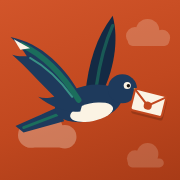
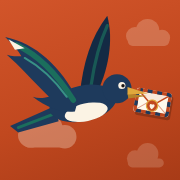
앱 아이콘: 편지를 문 까치(항공우편풍 편지·하트 도장) (#13)
Claude-Session: https://claude.ai/code/session_01GA1ocwaYjo7gRcQeBhuum6

Changed region(s): [[0.0278, 0.0833, 0.9722, 0.75]]

diff --git a/CLAUDE.md b/CLAUDE.md
@@ -205,10 +205,11 @@
 - [x] **요구사항 5가지 반영 (2026-10-07)**: ①앱이 열려 있는 동안 귀여운 알림 팝업(`src/components/Notifier.tsx`: 도착·답장·중간 지점, 설정 스위치를 따름, 다른 탭이면 브라우저 알림). **앱을 닫은 뒤의 푸시는 아직 없음**(웹 푸시+예약 서비스 설계는 대화에 있음, 키 필요). ②전국 지역 선택 + "내 위치로"(`core/places.ts` 33곳+랜드마크, `core/routes.ts`가 두 지역 사이 경유지를 자동으로 뽑음, 노선 id는 `출발-도착`이고 예전 3개 id 그대로 호환) + 실제 해안선 지도(`core/koreaGeo.ts` = Natural Earth, `scripts/build-korea-geo.mjs`로 생성, `src/components/JourneyMap.tsx`·`LandmarkIcon.tsx`). 카카오맵 없이도 토스 정적 빌드에서 동작. ③지금 지나는 곳·다음 지점까지 남은 시간·경유지 시각표(`LetterView.tsx`). ④글자 수 제한 제거(`core/limits.ts` 10만 자). **서버 규칙(`firebase/firestore.rules` 500→100000자)을 Firebase 콘솔에 먼저 게시한 뒤 배포해야 긴 편지가 저장됨**(규칙이 먼저여도 옛 앱은 문제없음). 새가 편지를 문 그림(`BirdIcon letter`). 시험: `npm run test:core` 49개. `check:toss`는 `CHROME_PATH=/chrome/경로`로 실제 브라우저 점검까지 가능
 - [x] **푸시 알림 코드 완료 (2026-10-07, 키 입력 전이라 꺼져 있음)**: 웹 푸시(VAPID) + Upstash QStash 예약, **Firebase Blaze 불필요**. 폰 `src/lib/push.ts`(켜기·구독·예약), 서비스 워커 `public/sw.js`, 서버 `src/app/api/push/{schedule,deliver}/route.ts`(deliver는 QStash 서명 검증), 요청 검사 `core/pushPayload.ts`, 문구 `src/lib/notifyText.ts`, 안내 카드 `PushPrompt.tsx`, 설정 스위치, 알림 담당 `Notifier.tsx`가 도착·경유지 시각마다 예약(중복 예약 방지). 켜는 법은 **`docs/푸시-설정.md`**(Vercel 환경 변수 6개 + 다시 배포). 시험: 요청 검사 16개(test:core 65개), API 서명 검증, 구글 FCM에 요청이 닿는 것(410 응답 확인), 폰 쪽 흐름(가짜 구독)까지 확인. **실제 폰에 알림이 뜨는 것까지는 아직 못 봤음.** 토스 빌드에서는 푸시 UI가 숨겨짐
 - [x] **폴라로이드 사진·두루마리·예약 발송 구현 (2026-10-13, 서버 규칙 게시 필요)**: 사진은 줄인 JPEG를 `letters/{id}/private/photo0~2`에 한 장씩 저장(`core/limits.ts` MAX_PHOTOS·MAX_PHOTO_CHARS, 규칙의 450000과 같아야 함), 숨은 정보는 캔버스로 다시 그려 제거(`src/lib/photo.ts`), 폰 저장은 폴라로이드 PNG(`savePolaroid`). 돌돌 말린 편지·사진 펼침과 현상 효과는 `src/components/Unroll.tsx`+`globals.css`. 예약 발송은 `departAt`(규칙: 최대 366일, 출발 전 `get`은 보낸 사람만), 편지의 비행 시작 시각 `sentAt`을 예약이면 출발 시각으로 바꿔 읽어서 비행·알림 계산은 그대로(`remote.ts toMeta`), 규칙 때문에 예약하지 않은 편지에는 `departAt` 칸을 넣지 않음. 홈의 "출발을 기다리는 편지", 예약 취소(`cancel`). 한계: 예약 편지는 목록 쿼리를 규칙으로 막지 못해 받는 사람 앱이 화면에서 숨김(내용은 도착 전 규칙으로 막힘), 서버 해제 방식은 다음 단계. 시험: `npm run test:core` 117개, 규칙 에뮬레이터 48개, `npm run e2e:local` 13개(서버 없이). **답장**: 규칙에 `replyTo`(내가 받은 편지의 보낸 사람에게만, 친구 아니어도 가능), 편지 화면 [답장하기]→`/send?reply=ID`(보낸 곳·받는 곳 반전). 규칙 에뮬레이터 57개. 문서: `docs/로그인-설정.md`, `docs/카톡-앱열기.md`
-- [x] **2026-10-13 저녁 작업 (브랜치 `claude/exciting-shannon-lbcyf3`, PR #12 미병합)**: 돌돌 말린 종이 연출 다듬음(글씨 안 가림, 2.6초), 설정 "계정 연결"(구글·애플 코드 `src/lib/firebase/link.ts`, 카카오·네이버·라인은 "준비 중"), 카톡 링크(미리보기 카드 `letter/[id]/layout.tsx`, 카톡 안 브라우저 안내 `OpenInApp.tsx`, 카카오링크 `kakaoShare.ts`는 `NEXT_PUBLIC_KAKAO_JS_KEY` 넣기 전 꺼짐, [앱에서 열기]는 `NEXT_PUBLIC_APP_OPEN=1` 전 꺼짐), 연락처 선택기로 문자 초대(`contactInvite.ts`, 저장 안 함), 친구가 앱을 닫아도 오는 도착 알림(`firebase/pushSub.ts`, 규칙 `users/{uid}/push/sub`, 규칙 시험 65개), 짹짹 알림(앱 열린 동안 새소리 `chirp.ts`, 문구 "짹짹!", 진동, 설정 스위치). 웹 푸시 소리는 폰 기본음 → 진짜 새소리는 스토어 앱 푸시 때.
+- [x] **2026-10-13 저녁 작업 (PR #12로 2026-10-14 main에 병합됨, Vercel 자동 배포)**: 돌돌 말린 종이 연출 다듬음(글씨 안 가림, 2.6초), 설정 "계정 연결"(구글·애플 코드 `src/lib/firebase/link.ts`, 카카오·네이버·라인은 "준비 중"), 카톡 링크(미리보기 카드 `letter/[id]/layout.tsx`, 카톡 안 브라우저 안내 `OpenInApp.tsx`, 카카오링크 `kakaoShare.ts`는 `NEXT_PUBLIC_KAKAO_JS_KEY` 넣기 전 꺼짐, [앱에서 열기]는 `NEXT_PUBLIC_APP_OPEN=1` 전 꺼짐), 연락처 선택기로 문자 초대(`contactInvite.ts`, 저장 안 함), 친구가 앱을 닫아도 오는 도착 알림(`firebase/pushSub.ts`, 규칙 `users/{uid}/push/sub`, 규칙 시험 65개), 짹짹 알림(앱 열린 동안 새소리 `chirp.ts`, 문구 "짹짹!", 진동, 설정 스위치). 웹 푸시 소리는 폰 기본음 → 진짜 새소리는 스토어 앱 푸시 때.
 - **사용자 결정(2026-10-13)**: 예약 편지 서버 숨기기는 "사실 중요하지 않다" → 지금 방식(내용만 서버가 막음, 목록은 앱이 숨김) 유지하고 뒤로 미룸. 출발한 편지는 받는 사람도 날아오는 모습을 봄(기다림의 미학 핵심).
-- **내일 이어갈 것(사용자: "여기부터 내일")**: ①푸시 키 넣기 — 1단계는 대표님이 Upstash(console.upstash.com) 가입 후 QStash 화면 사진(토큰 가리고) 보내기, 이후 `docs/푸시-설정.md` 순서(VAPID 키는 `scripts/gen-vapid.mjs`, 비밀 키는 채팅에 붙이지 않음) ②Firebase 규칙 재게시(푸시 주소 칸 추가됨, 안내 아티팩트 최신화 필요) ③구청 확인 상황을 **작업 시작 전에 먼저 보고** ④PR #12 "합쳐" 승인 대기 ⑤카카오 JavaScript 키 받기 ⑥규칙 게시 뒤 서버에서 사진·예약·답장 두 계정 시험. ⑦**카카오 로그인 구현(사용자: "카카오가 핵심, 한국 유저를 잡으려면" → 소셜 로그인 중 1순위)**: 지금 설정 화면의 카카오는 버튼 자리만 있고 "준비 중"으로 막혀 있음(`src/lib/firebase/link.ts` LOGINS의 `ready:false`). 만들 것: 카카오 로그인 → 우리 서버(Vercel)가 카카오 토큰 확인 → Firebase 커스텀 토큰(uid `kakao:번호`) → 익명 계정 편지·친구 유지(`docs/로그인-설정.md` §1·§5). 대표님이 할 일: 카카오 개발자(developers.kakao.com) 앱 "새 편지"에서 카카오 로그인 켜기·사이트 주소 등록·동의항목(닉네임만), 앱 키 전달(시크릿은 채팅에 붙이지 않고 Vercel에 직접), Firebase 서비스 계정 키를 Vercel 환경 변수로(Blaze 필요 여부 「미확인」). 카카오링크용 JavaScript 키도 같은 앱에서 같이 받음.
+- **내일 이어갈 것(사용자: "여기부터 내일")**: ①푸시 키 넣기 — 1단계는 대표님이 Upstash(console.upstash.com) 가입 후 QStash 화면 사진(토큰 가리고) 보내기, 이후 `docs/푸시-설정.md` 순서(VAPID 키는 `scripts/gen-vapid.mjs`, 비밀 키는 채팅에 붙이지 않음) ②Firebase 규칙 재게시(푸시 주소 칸 추가됨, 안내 아티팩트 최신화 필요) ③구청 확인 상황을 **작업 시작 전에 먼저 보고** ④(완료: PR #12 병합) ⑤카카오 JavaScript 키 받기 ⑥규칙 게시 뒤 서버에서 사진·예약·답장 두 계정 시험. ⑦**카카오 로그인 구현(사용자: "카카오가 핵심, 한국 유저를 잡으려면" → 소셜 로그인 중 1순위)**: 지금 설정 화면의 카카오는 버튼 자리만 있고 "준비 중"으로 막혀 있음(`src/lib/firebase/link.ts` LOGINS의 `ready:false`). 만들 것: 카카오 로그인 → 우리 서버(Vercel)가 카카오 토큰 확인 → Firebase 커스텀 토큰(uid `kakao:번호`) → 익명 계정 편지·친구 유지(`docs/로그인-설정.md` §1·§5). 대표님이 할 일: 카카오 개발자(developers.kakao.com) 앱 "새 편지"에서 카카오 로그인 켜기·사이트 주소 등록·동의항목(닉네임만), 앱 키 전달(시크릿은 채팅에 붙이지 않고 Vercel에 직접), Firebase 서비스 계정 키를 Vercel 환경 변수로(Blaze 필요 여부 「미확인」). 카카오링크용 JavaScript 키도 같은 앱에서 같이 받음.
 - **정정(2026-10-14)**: Vercel 환경 변수에는 푸시용 8개(`NEXT_PUBLIC_VAPID_PUBLIC_KEY`·`VAPID_PRIVATE_KEY`·`VAPID_SUBJECT`·`NEXT_PUBLIC_SITE_URL`·`QSTASH_URL/TOKEN/CURRENT_SIGNING_KEY/NEXT_SIGNING_KEY`)가 **이미 10/7~8에 들어가 있음**(대표님 Vercel 화면 확인). 푸시 코드도 main에 있으므로 "키 입력 전"이라는 위 문장은 옛 정보. 새로 만든 열쇠는 쓰지 않음(교체하면 기존 구독이 무효). 남은 일: 실제 폰에서 설정 → 시험 알림 보내기로 확인, QStash 키가 채팅에 노출된 적 있으면 Upstash에서 교체 후 Vercel 3개 값만 갱신.
+- **2026-10-14**: PR #12 병합(푸시 시험 개선: 옛 구독 자동 정리·시험 버튼 2개·결과 표시, 새 앱 아이콘 `promo/build-icons.mts`로 생성 = 날개 편 까치+편지+구름). 아이폰은 아이콘을 바꿔 주지 않아 **홈 화면 아이콘 삭제 후 다시 추가** 필요. 푸시 시험 결과(폰에서 두 버튼)는 아직 못 받음.
 - [ ] 출시 전 남은 것(기획팀 보고 2026-10-06): 푸시 알림 키 입력과 실제 폰 시험(위 항목), 카카오맵 교체, `?test=1`·`?demo=1` 시험 기능 숨기기(주의: 매일 점검 e2e가 공개 사이트에서 `?test=1`을 씀 → 숨기려면 점검 방식도 바꿔야 함), 도착 시각 서버 검증(Blaze), 홍보 카드 5장을 새 일러스트로 재제작, 시험 데이터 정리, 브랜치를 main에 합치고 배포
 - [x] 홍보 자동화(2026-10-02~): `promo/record-demo.mjs`(앱 화면 녹화 → `promo/video/saepyeonji-demo.mp4`, Playwright+ffmpeg, AI 크레딧 불필요), 자동 게시 `promo/schedule.json`+`scripts/auto-post.mjs`+`.github/workflows/auto-post.yml`(스레드·인스타, **실제 게시는 미시험**, main 합친 뒤·토큰 넣은 뒤에만 동작, 설정은 `docs/자동게시-설정.md`). 틱톡은 직접 올리기
 - [ ] 시험 때 남은 데이터: `reports`에 시험 신고 2건, 민수 시험 편지(`rVrEnQPHUcShj78vwFHi`), 익명 계정 여러 개 — Firebase 콘솔에서 지워도 됨
